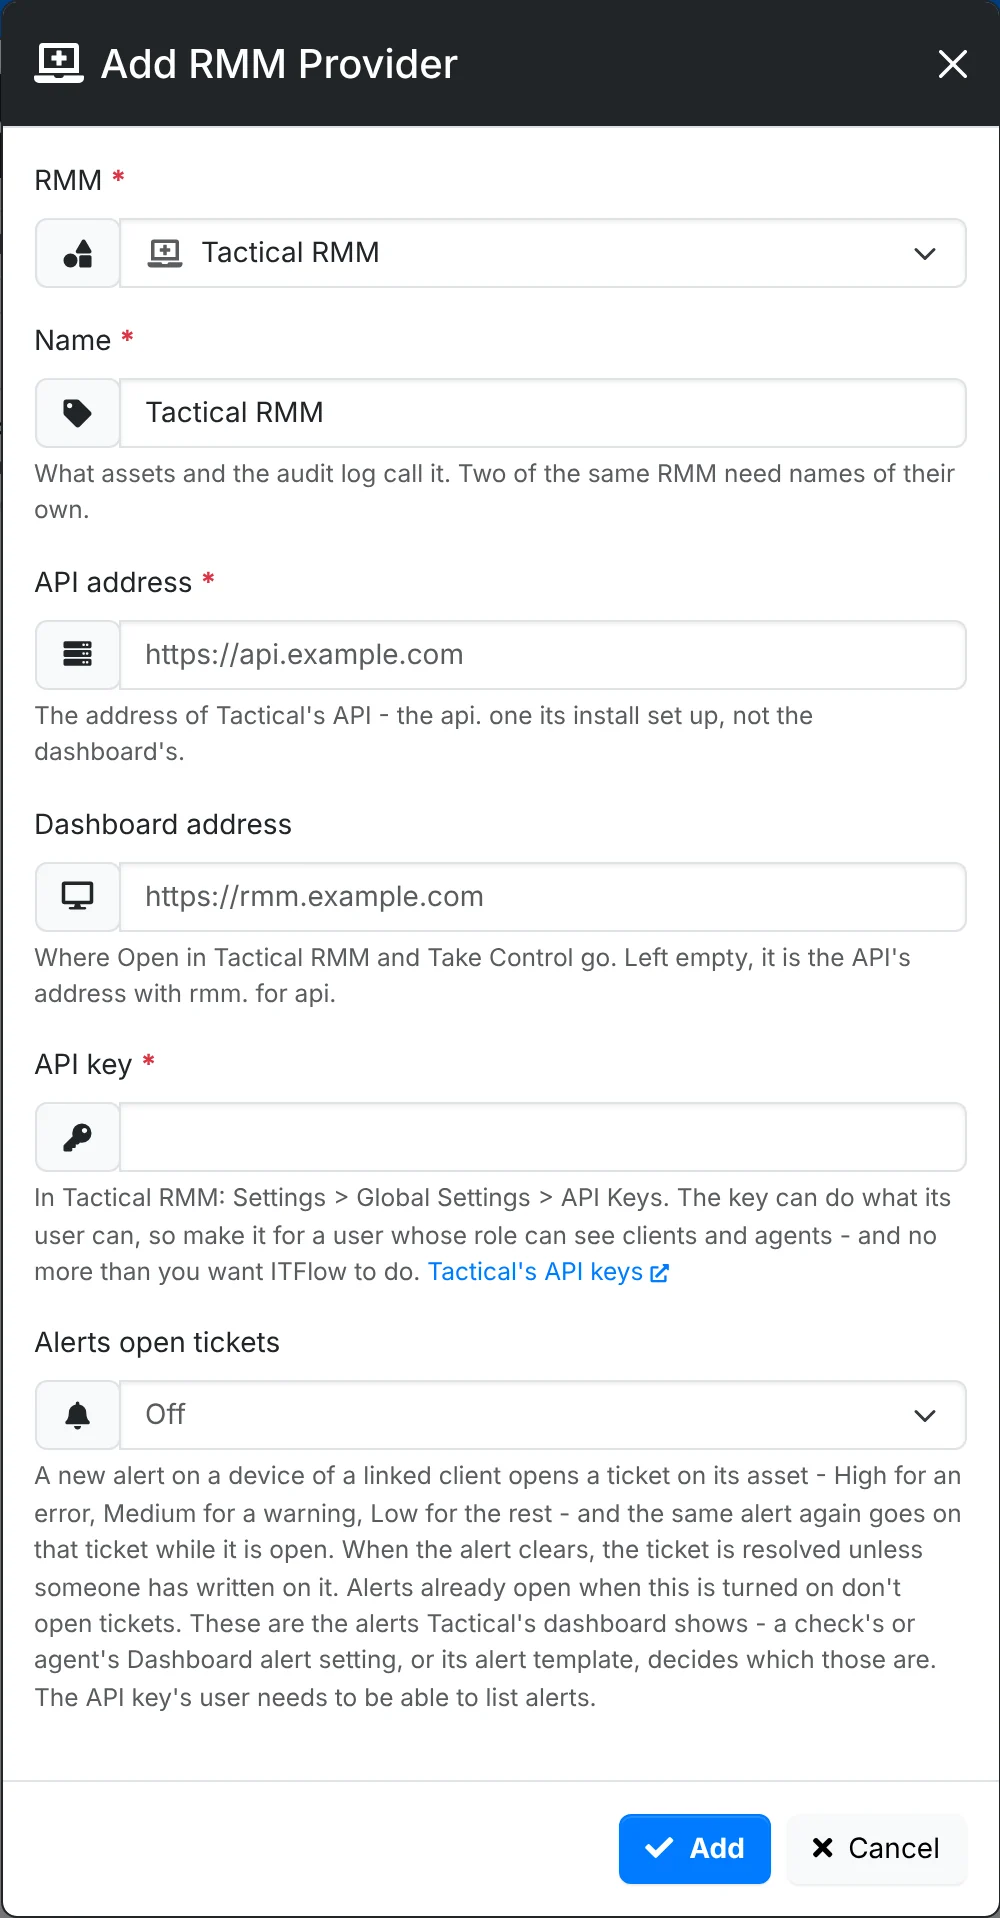
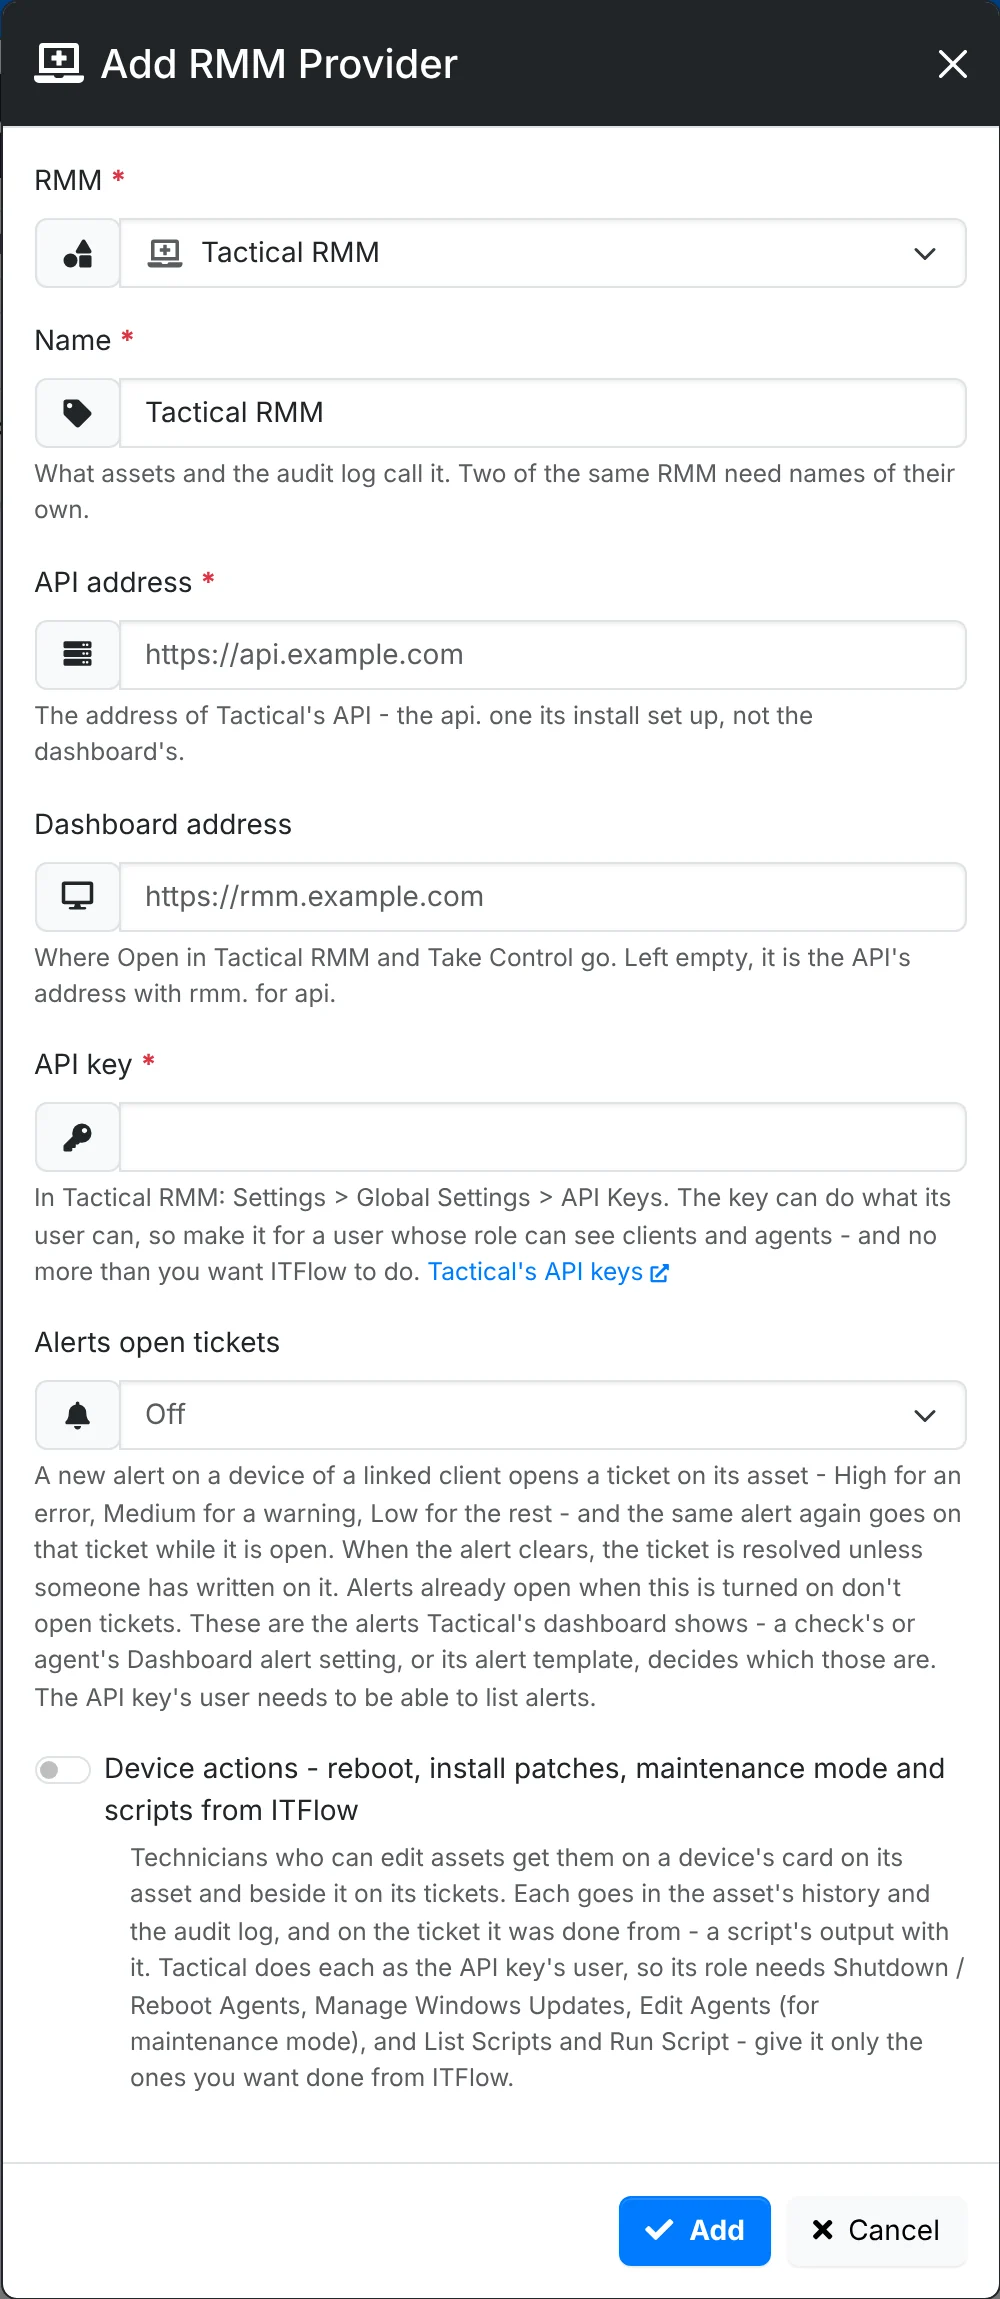
Docs: RMM device actions - RMM providers gains a Device actions section covering turning them on in the provider's Edit, the Actions menu on the asset card and the lightning button on tickets, what reboot, install patches, maintenance mode and run a script do, where each is recorded and the Tactical

diff --git a/content/admin/rmm.md b/content/admin/rmm.md
@@ -1,6 +1,6 @@
 ---
 title: RMM providers
-description: Bring your RMM's devices into ITFlow as assets and keep them up to date, see whether each is online, have its alerts open tickets, and bill per managed device - with Tactical RMM.
+description: Bring your RMM's devices into ITFlow as assets and keep them up to date, see whether each is online, have its alerts open tickets, reboot devices and run scripts on them from ITFlow, and bill per managed device - with Tactical RMM.
 where: Admin > RMM Providers
 access: Admins
 ---
@@ -10,19 +10,20 @@ ITFlow reads your RMM, so the devices it looks after are your clients' assets wi
 - Each client you link has its devices as assets - matched to the ones you already have, and kept up to date. See [What comes in](#what-comes-in).
 - An asset shows whether the device is online, who's signed in and what needs attention, with **Take Control** to open a remote session. See [On the asset](#on-the-asset).
 - Alerts can open tickets, and resolve them when they clear. See [Alerts open tickets](#alerts).
+- Technicians can reboot a device, install its patches, turn maintenance mode on and off, and run a script on it - from its asset, or a ticket. See [Device actions](#device-actions).
 - A recurring invoice can bill per managed device. See [Bill per managed device](#billing).
 
 ## Before you start
 
 ITFlow reads Tactical's API with an API key. In Tactical RMM:
 
-1. Make a user just for ITFlow, with a role that has **List Clients** and **List Agents** - and **List Alerts**, if alerts are to open tickets. ITFlow only reads, so it needs nothing more. A role limited to some clients shows ITFlow only those.
+1. Make a user just for ITFlow, with a role that has **List Clients** and **List Agents** - and **List Alerts**, if alerts are to open tickets. That's all ITFlow needs to read. For [device actions](#device-actions), add the permissions for the ones you want. A role limited to some clients shows ITFlow only those.
 2. In **Settings > Global Settings > API Keys**, add a key for that user, and copy it.
 
 You also need the address of Tactical's API. Tactical's install puts it at an address starting `api.` on your domain - `https://api.example.com` - beside the dashboard at `rmm.`. ITFlow's server has to be able to reach it.
 
 > [!NOTE]
-> The key can do whatever its user can in Tactical, so give that user no more than ITFlow needs.
+> The key can do whatever its user can in Tactical, so give that user no more than ITFlow needs - and no device actions you don't want done from ITFlow.
 
 ## Add Tactical RMM
 
@@ -31,7 +32,7 @@ You also need the address of Tactical's API. Tactical's install puts it at an ad
 3. Enter the **API address** and the **API key**. The **Dashboard address** can stay empty when it's the API's address with `rmm.` for `api.`.
 4. Click **Add**. ITFlow tries the key, brings in Tactical's clients and opens its **Clients** page. If something is wrong, it says what - a key Tactical turned away, or an address that isn't Tactical's API.
 
-![The Add RMM Provider window](adm-rmm-provider-form.webp "Add RMM Provider: which RMM, its API address and key, and whether its alerts open tickets")
+![The Add RMM Provider window](adm-rmm-provider-form.webp "Add RMM Provider: which RMM, its API address and key, whether its alerts open tickets, and device actions")
 
 No devices come in yet. They come in once you link their client.
 
@@ -118,6 +119,48 @@ The alerts ITFlow sees are the ones in Tactical's dashboard. Each check's and ag
 > [!NOTE]
 > Alerts already open when you turn this on don't open tickets - nor do ones raised before their client was linked, or while the provider was off. Only new ones do.
 
+## Device actions {#device-actions}
+
+Technicians can act on a device without opening Tactical. In the provider's **Edit**, turn on **Device actions** - they're off until you do.
+
+Then, for anyone whose role can edit assets (**Modify** on **Support**):
+
+- the device's **Tactical RMM** card on its asset has **Actions**,
+- and on a ticket, the lightning button beside an asset from Tactical has the same.
+
+| Action | Does |
+|---|---|
+| **Reboot now** | Restarts it straight away. ITFlow asks first, and says who's signed in. |
+| **Install patches now** | Installs the patches its patch policy in Tactical approves, and restarts it afterwards if that policy says to. ITFlow asks first. Windows devices only. |
+| **Turn maintenance mode on** / **off** | While it's on, Tactical raises no alerts for the device, so none opens a ticket. The device shows **Online, maintenance**. |
+| **Run a script** | Runs one of Tactical's scripts on it - see [Run a script](#run-a-script). |
+
+Each goes in the asset's **History** tab and the [audit log](/admin/logs#audit-logs). Done from a ticket, it's also an internal note on that ticket, by you.
+
+Tactical does each as the API key's user, so that user's role needs:
+
+| Action | Permission in Tactical |
+|---|---|
+| **Reboot now** | **Shutdown / Reboot Agents** |
+| **Install patches now** | **Manage Windows Updates** |
+| **Maintenance mode** | **Edit Agents** |
+| **Run a script** | **List Scripts** and **Run Script** |
+
+Leave out the ones you don't want done from ITFlow. Trying one the role hasn't got says which permission it needs, and nothing is done.
+
+### Run a script {#run-a-script}
+
+![Run a script, from a ticket](doc-asset-rmm-script.webp "Run a script: a disk check run from the ticket its alert opened, with the output shown and noted on the ticket")
+
+1. Click **Actions > Run a script** - or the lightning button on a ticket.
+2. Pick the **Script**. The list has Tactical's scripts that run on the device's system - Windows, Linux or macOS - with its favorites first, then by category. Type to search it.
+3. **Arguments** start as the script's own, one a line. Change them if you need to.
+4. **Timeout** starts as the script's own, up to 600 seconds.
+5. **Note it on** picks one of the asset's tickets for what was run and its output, as an internal note. From a ticket, it's that ticket.
+6. Click **Run**. When the script is done, its output shows in the window.
+
+The device has to be online. For a script that runs a long time, turn off **Wait for its output**: Tactical runs it, and the output is in the device's history in Tactical. If a script doesn't finish within its timeout, ITFlow stops waiting and says so - if it finishes, the output is there too.
+
 ## Bill per managed device {#billing}
 
 A recurring invoice line can count the client's devices in Tactical: set its **Quantity from** to **Managed devices**. It can count only some types - Desktop and Laptop for a managed workstation, Server and Virtual Machine for a managed server - or only those with a tag. A device Tactical no longer has stops counting at the next invoice. See [Recurring invoices](/billing/recurring-invoices#bill-per-user-per-device-or-per-seat).
@@ -135,7 +178,7 @@ The list shows each provider, how many of its clients are linked and how many ha
 From a provider's menu:
 
 - **Clients** - its [Clients page](#link).
-- **Edit** - its name, addresses, key and alerts. Leave the key empty to keep the saved one. Which RMM it is can't be changed.
+- **Edit** - its name, addresses, key, alerts and [device actions](#device-actions). Leave the key empty to keep the saved one. Which RMM it is can't be changed.
 - **Sync now** - bring in its linked clients' devices now.
 - **Test the connection** - whether Tactical takes the key, and how many clients and devices it sees.
 - **Open Tactical** - its dashboard.

diff --git a/content/documentation/assets.md b/content/documentation/assets.md
@@ -82,7 +82,7 @@ Along the top are the asset's photo or type icon, name, status, type, model and 
 
 The cards show its **Network** details, its **Hardware** - model, serial, operating system or firmware, its details, warranty, when it was bought and installed, the vendor and order reference - and **Where & who**: its location, rack position and who has it. **Quick notes** save as you click away.
 
-A device from your [RMM](/admin/rmm#on-the-asset) shows whether it's online beside its status, and has a card with who's signed in, what needs attention and its alerts - and **Take Control** along the top opens a remote session.
+A device from your [RMM](/admin/rmm#on-the-asset) shows whether it's online beside its status, and has a card with who's signed in, what needs attention and its alerts - and **Take Control** along the top opens a remote session. With [device actions](/admin/rmm#device-actions) on, the card's **Actions** reboots it, installs its patches, turns maintenance mode on and off, or runs a script on it.
 
 A server or NAS lists the virtual machines that run on it, under **Runs**, and a virtual machine links to its host. A UPS shows how long is left until its battery is to be replaced:
 
